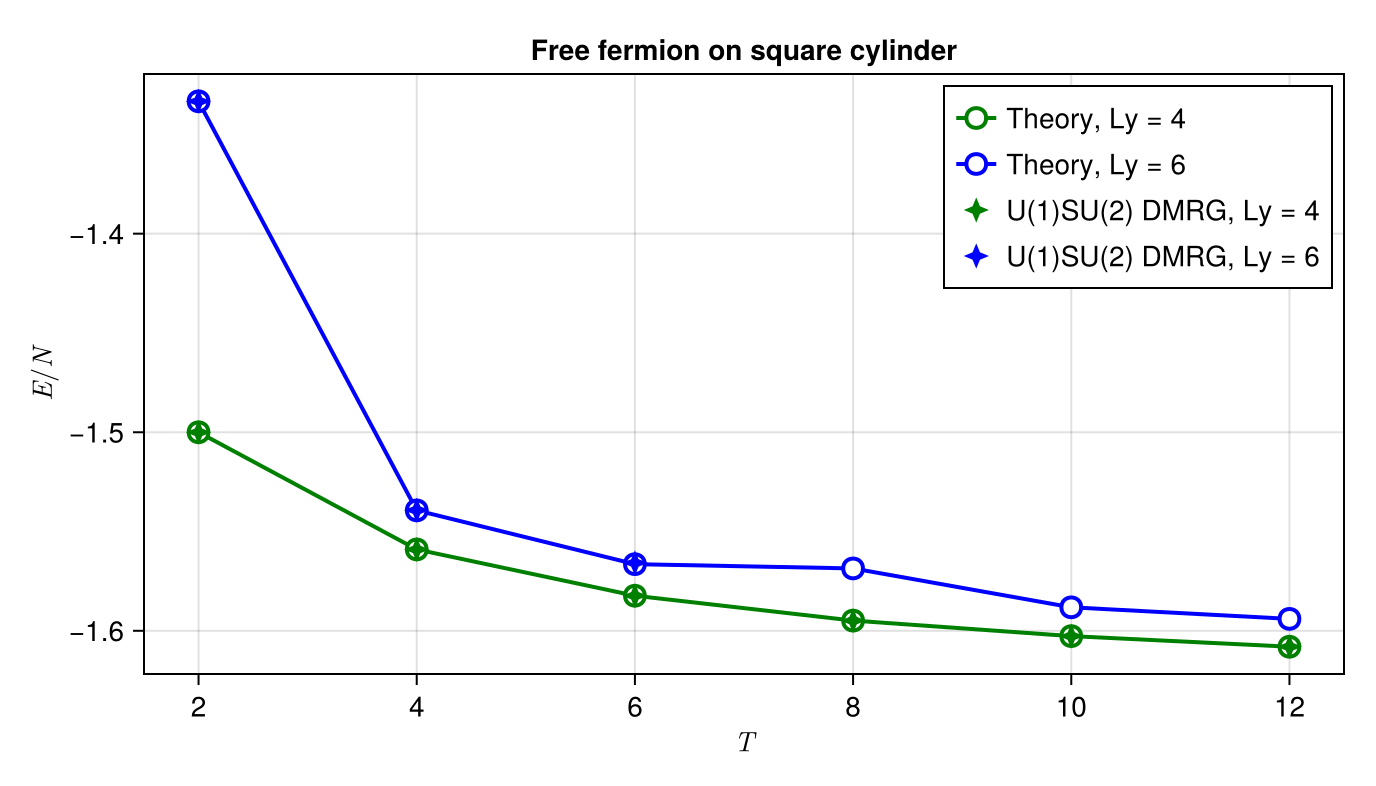
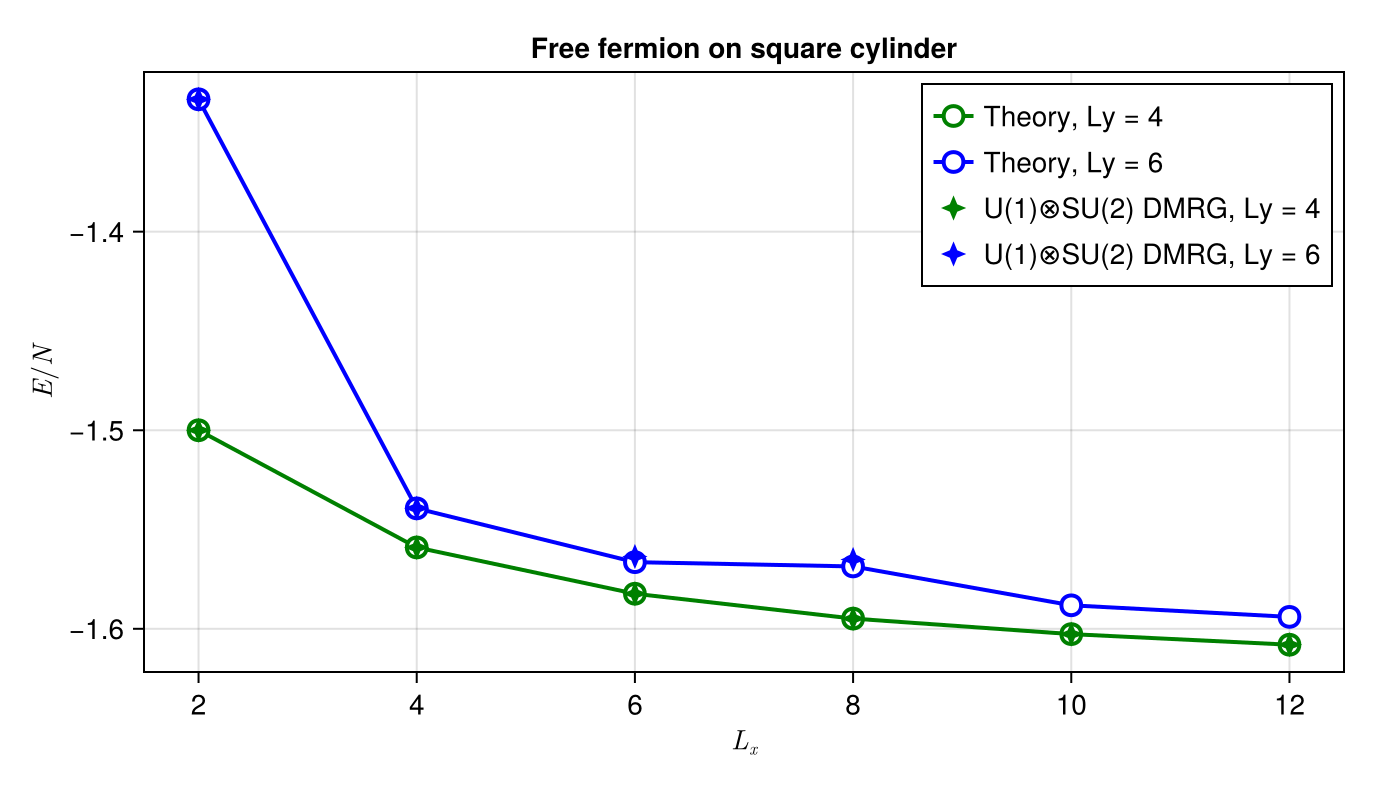
readme

diff --git a/README.md b/README.md
@@ -26,6 +26,20 @@ calculated with $U=0$ (free fermion) to check code precision and performance:
 
 ![Free fermion](slides/mdfig/free%20fermion_md.png "free fermion")
 
+Detailed performance are listed below:
+|N	| $L_x \times L_y$ | D | Error | CPU time per sweep (s)|
+|------|--------- | ----------|--------------------|-----------|
+|8 | 2x4 | 128 | 1E-14 | 2.02 | 
+|16 | 4x4 | 1024 | 1E-07 | 87.2 | 
+|24 | 6x4 | 2048 | 1E-07 | 300 | 
+|32 | 8x4 | 2048 | 1E-06 | 542 | 
+|40 | 10x4 | 2048 | 1E-06 | 681 | 
+|48 | 12x4 | 2048 | 1E-05 | 726 | 
+|12 | 2x6 | 512 | 1E-05 | 12.7 | 
+|24 | 4x6 | 4096 | 1E-05 | 802 | 
+|36 | 6x6 | 4096 | 1E-03 | 1806 | 
+|48 | 8x6 | 4096 | 1E-03 | 3049 | 
+
 * Heisenberg chain: the extrapolation of finite size Heisenberg chain. The limit of $N\to \infty$ for $(E_{AFM} - E_{FM})/N$ is given by [Bethe Ansatz](https://github.com/KunyangDU/Bethe-Ansatz.git): $-\ln 2$.
 
 ![Free fermion](slides/mdfig/heisenberg.png "Heisenberg")
